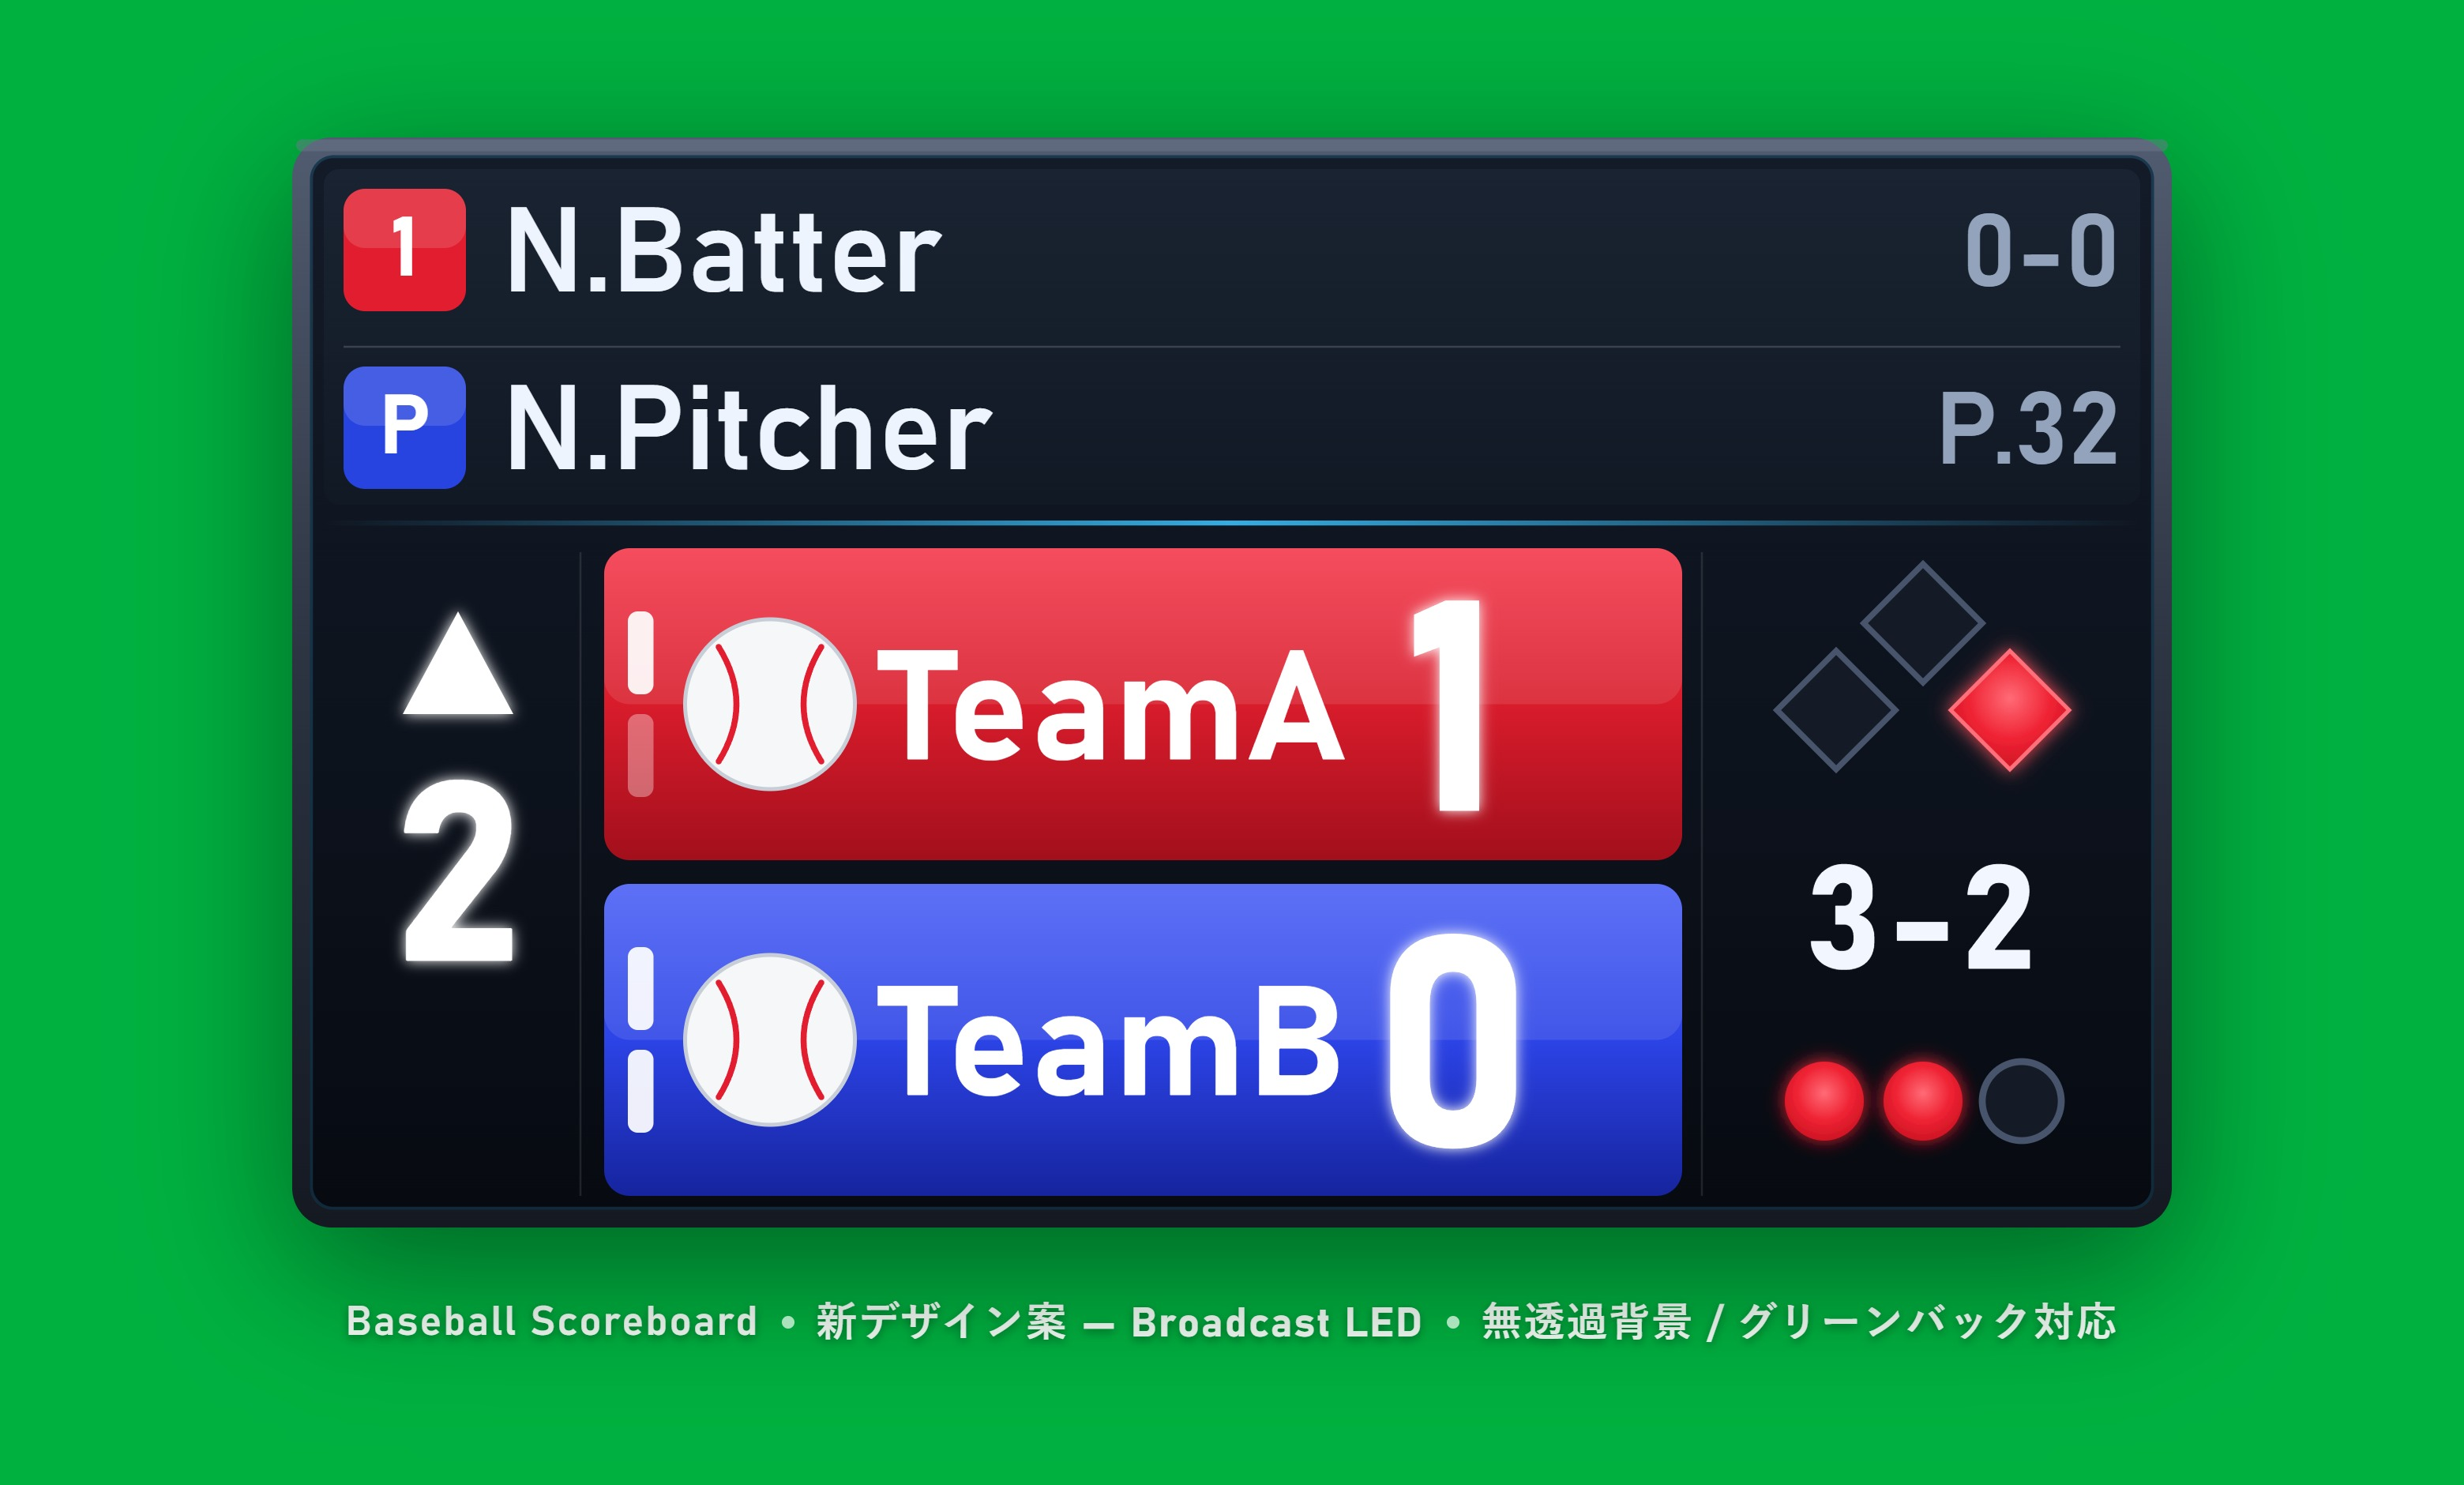
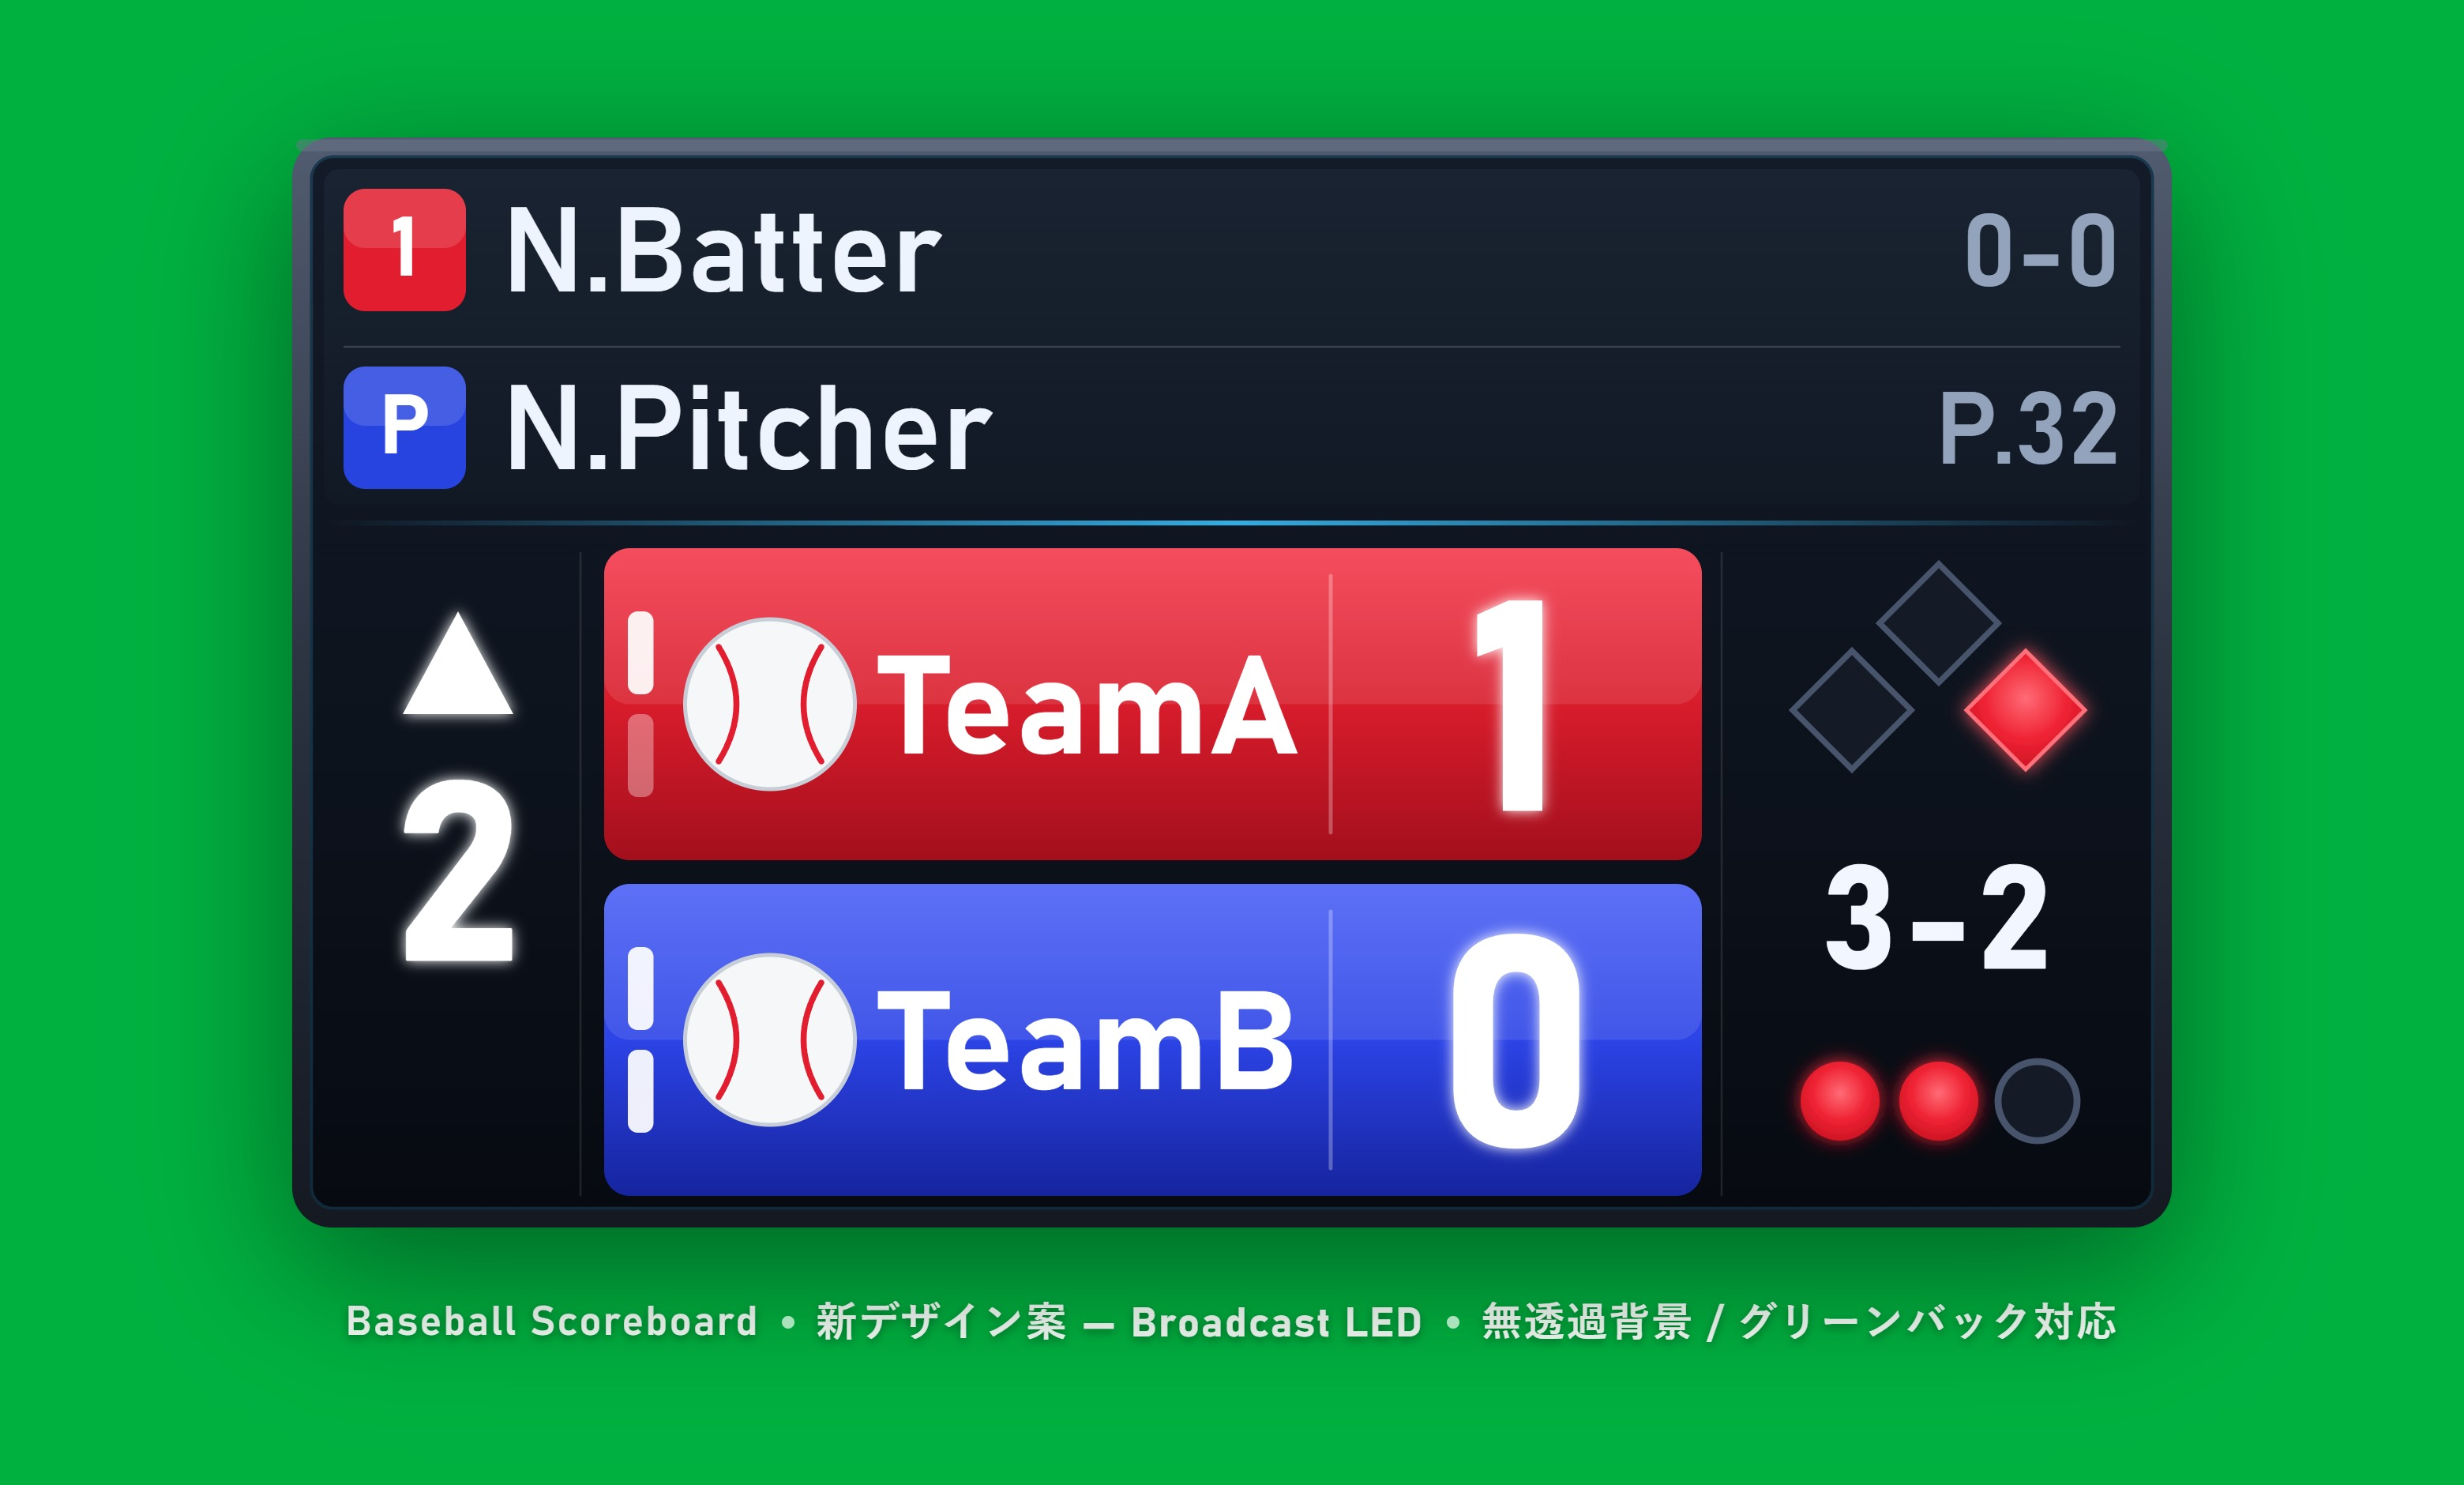
Center score digits in the score slot
The score digits sat left of center within the visible score area,
leaving a large gap on the right. Extend the score slot flush to the
team bar's right edge and center digits within it, verified by
measuring glyph bounds (equal left/right gaps).

- Add a subtle divider line marking the score slot's left edge
- Slightly adjust abbreviation size and bar/status geometry so the
  abbreviation never crosses the divider and two digits still fit
- scoreboard_design.md: document the divider and abbreviation
  auto-shrink rule

Changed region(s): [[0.684, 0.3702, 0.8705, 0.8021], [0.342, 0.617, 0.6529, 0.8021], [0.342, 0.4011, 0.6529, 0.5553]]

diff --git a/docs/scoreboard_design.md b/docs/scoreboard_design.md
@@ -246,7 +246,8 @@ Codex GUI上でのやり取りや画面文言は日本語にする。
 - チームカラーの帯は上→下の縦グラデーションと上部のハイライトで、平坦ではなく立体的なバー表現にする。
 - チームカラーの帯（チーム枠）は、2桁得点まで余裕を持って収まる大きさを確保する。
 - 得点は最大サイズの白文字にし、淡いグローを添えて最も目立たせる。
-- 得点の数字は、チーム帯の右側に確保した固定幅の得点スロット内で左右中央揃えにする。これにより、2桁得点（例: 20点）でも桁が重ならず、チーム帯の大きさも変わらない。
+- 得点の数字は、チーム帯の右端いっぱいに確保した固定幅の得点スロットの中で左右中央揃えにする。これにより、2桁得点（例: 20点）でも桁が重ならず、チーム帯の大きさも変わらない。
+- 得点スロットの左端には薄い仕切り線を入れ、得点部分とチーム略称の領域を分ける。チーム略称が長い場合は、仕切り線を越えないように略称側の文字を自動縮小する。
 - イニングの数字はイニング枠の上下中央に置き、表裏の三角はその上に添える。
 - 上部の打者・投手行の間には、参考画像どおり左右いっぱいの仕切り線を入れて行を分ける。
 - 打者・投手行の選手名と成績は、配信画面でも読みやすい大きめの文字にする（4.1のとおり、イニング・チーム名・得点・カウント類よりは小さくする）。